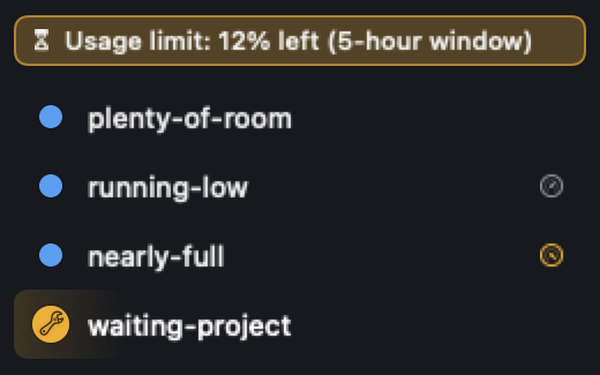
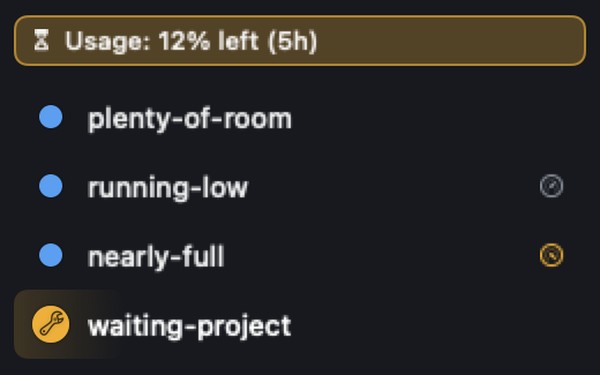
chore: 機能カードのスクショを利用上限帯の新文言に合わせて更新
Claude-Session: https://claude.ai/code/session_01GYRm1BprEY8v4kzJYZ26GH

Changed region(s): [[0.24, 0.0587, 0.9, 0.1467]]

diff --git a/ja.html b/ja.html
@@ -898,7 +898,7 @@
 </div>
 <div class="feat-item feat-item--shot">
 <div class="feat-thumb">
-<img alt="The AgentManager session list with a gauge badge on sessions nearing their context limit, and a banner reading Usage limit: 12% left (5-hour window)" class="feat-thumb-img" loading="lazy" src="feature-context.png"/>
+<img alt="The AgentManager session list with a gauge badge on sessions nearing their context limit, and a banner reading Usage: 12% left (5h)" class="feat-thumb-img" loading="lazy" src="feature-context.png"/>
 </div>
 <div class="feat-title">
 <svg class="feat-px" viewbox="0 0 10 10"><rect fill="#F5A623" height="10" width="10"></rect></svg>

diff --git a/index.html b/index.html
@@ -963,7 +963,7 @@
     <div class="feat-item feat-item--shot">
       <div class="feat-thumb">
         <img class="feat-thumb-img" src="feature-context.png" loading="lazy"
-             alt="The AgentManager session list with a gauge badge on sessions nearing their context limit, and a banner reading Usage limit: 12% left (5-hour window)">
+             alt="The AgentManager session list with a gauge badge on sessions nearing their context limit, and a banner reading Usage: 12% left (5h)">
       </div>
       <div class="feat-title">
         <svg class="feat-px" viewBox="0 0 10 10"><rect width="10" height="10" fill="#F5A623"/></svg>
